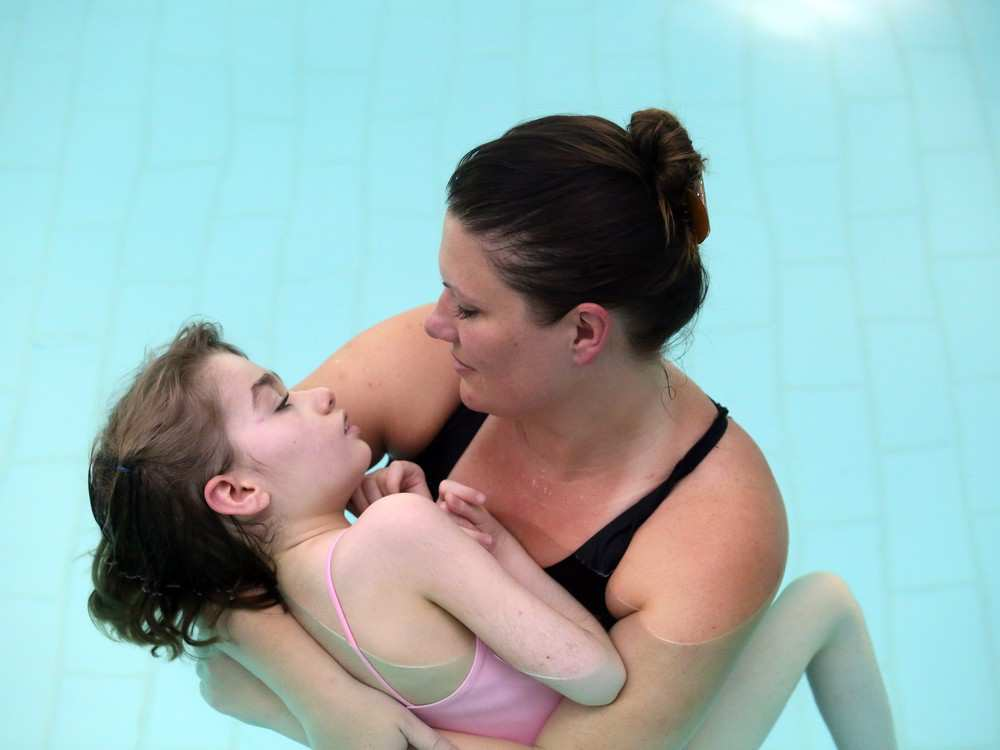
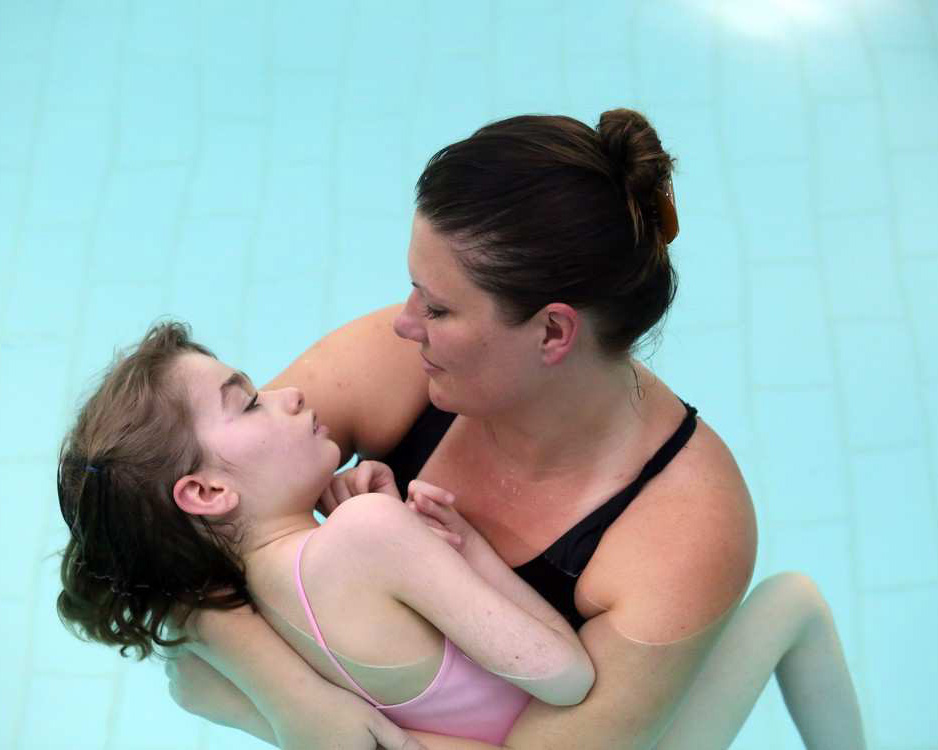
css

diff --git a/server/public/index.html b/server/public/index.html
@@ -76,8 +76,9 @@
 
 
 
-
-    <section class="container carouselContainer">
+<!-- <div class="carouselAndVideoDiv"> -->
+    <!--CAROUSEL / SLIDESHOW -->
+    <div class="container carouselContainer">
       <div id="myCarousel" class="carousel slide" data-ride="carousel">
         <!-- Indicators -->
         <ol class="carousel-indicators">
@@ -85,33 +86,28 @@
           <li data-target="#myCarousel" data-slide-to="1"></li>
           <li data-target="#myCarousel" data-slide-to="2"></li>
         </ol>
-
         <!-- Wrapper for slides -->
         <div class="carousel-inner">
-
           <div class="item active">
-            <img src="images/slideshow/girlswim.jpg" alt="Girl Swimming" style="width:100%;">
+            <img class="slideshowImage" src="images/slideshow/girlswim.jpg" alt="Girl Swimming">
             <div class="carousel-caption">
-              <h3>I love to swim!</h3>
+              <!-- <h3>I love to swim!</h3> -->
             </div>
-          </div>
+          </div>  <!-- end first item-->
+          <div class="item">
+            <img class="slideshowImage" src="images/slideshow/motherSon.jpg" alt="Mother and Son">
+            <div class="carousel-caption">
+              <!-- <h3>Swimming is fun!</h3> -->
+            </div>
+          </div> <!-- end second item-->
 
           <div class="item">
-            <img src="images/slideshow/motherSon.jpg" alt="Mother and Son" style="width:100%;">
+            <img class="slideshowImage" src="images/slideshow/motherDaughter.jpeg" alt="Mother and Daughter">
             <div class="carousel-caption">
-              <h3>Swimming is so much fun!</h3>
+              <!-- <h3>Water = Therapy</h3> -->
             </div>
-          </div>
-
-          <div class="item">
-            <img src="images/slideshow/motherDaughter.jpeg" alt="Mother and Daughter" style="width:100%;">
-            <div class="carousel-caption">
-              <h3>Water = Therapy</h3>
-            </div>
-          </div>
-
-        </div>
-
+          </div> <!-- end first item-->
+        </div>   <!-- END SLIDE WRAPPER -->
         <!-- Left and right controls -->
         <a class="left carousel-control" href="#myCarousel" data-slide="prev">
           <span class="glyphicon glyphicon-chevron-left"></span>
@@ -122,49 +118,16 @@
           <span class="sr-only">Next</span>
         </a>
       </div>
-    </section>
-
-
-
-
-
-
-
-
-
-
-
+    </div>
+    <!-- END CAROUSEL / SLIDESHOW -->
 
     <div class="videoDiv">
         <video loop muted autoplay="" class="videoItself">
           <source src="images/videos/now_this.mp4" type="video/mp4">
         </video>
+    </div>
 
 
-
-    <section class="search">
-    <h3>Find a pool</h3>
-    <form name="chartForm" ng-submit="home.getFacilities()">
-          <div class="searchDiv">
-            <i class="fa fa-search" aria-hidden="true"></i>
-            <input type="text" ng-model="home.zipcode" placeholder="Zip Code" class="zipcodeInput">
-          </div>
-        <div class="col-xs-2">
-          <button type="submit" class="submitZipButton btn btn-lg btn-info">Search</button>
-        <!-- </div> -->
-    </form>
-    </section>
-</div>
-
-
-
-
-
-
-    <!-- <div class="slideshowDiv">
-        <img class="slideshowImage" src="images/slideshow/girlswim.jpg" alt="girl swimming">
-
-    </div> -->
 
 
 
@@ -492,6 +455,24 @@
 
 
 
+    <section class="search">
+    <h3>Find a pool</h3>
+    <form name="chartForm" ng-submit="home.getFacilities()">
+          <div class="searchDiv">
+            <i class="fa fa-search" aria-hidden="true"></i>
+            <input type="text" ng-model="home.zipcode" placeholder="Zip Code" class="zipcodeInput">
+          </div>
+        <div class="col-xs-2">
+          <button type="submit" class="submitZipButton btn btn-lg btn-info">Search</button>
+        </div>
+    </form>
+    </section>
+
+
+
+
+
+
     <!-- Footer -->
     <footer class="w3-container w3-padding-32 w3-theme-d1 w3-center">
         <h4>Follow Us</h4>
@@ -511,8 +492,6 @@
             }
         }
     </script>
-
-
 
 
 

diff --git a/server/public/css/styles.css b/server/public/css/styles.css
@@ -17,30 +17,52 @@ h1  {
 }
 
 .videoDiv {
-  /*margin: auto;*/
+  display: inline-block;
+  margin: auto;
   background: black;
   border-top: groove black 20px;
-  /*width: 100%;*/
+  width: 50%;
+  float: right;
+  height: 100%;
 }
 
 .videoItself{
   background: black;
-  margin: auto;
-  width: 50%;
-  /*height: auto;*/
-  /*position: center;*/
+  /*margin: auto !important;*/
+  width: 84%;
+  height: 30%;
+  /*padding-left: 20px;*/
+  padding-bottom: 45px;
+  margin-left: 30px;
 }
 
-.slideshowDiv {
+.carouselContainer {
+  display: inline-block;
+  width: 50% !important;
   background: black;
-  width: 100%;
+
+  margin: auto;
+  float: left;
+  height: 90%;
+  max-height: 999px;
+  overflow: hidden;
+  border-top: groove black 20px;
+  padding-bottom: 50px;
+  /*padding-left: 50px !important;*/
+
 }
 
 .slideshowImage {
-  background: black;
-  position: center;
-  width: 70%;
+ width: 95%;
+ margin: auto;
+ /*max-height: 350px;*/
+ /*overflow: hidden;*/
 }
+
+.carouselAndVideoDiv{
+  display: inline-block;
+}
+
 
 .comingSoonDiv{
   background: black;
@@ -59,20 +81,16 @@ h1  {
 .navbar {
   position: fixed !important;
   width: 100%;
-  /*overflow: hidden !important;*/
+  overflow: hidden !important;
   /*margin-bottom: 0px !important;*/
 }
 
 
-.carouselContainer {
-  width: 100%;
-  background: black;
 
-}
 
 
 .search {
-  float: right;
+
   width: 300px;
   height: 200px;
   padding: 40px 40px 40px 40px;
@@ -82,12 +100,12 @@ h1  {
   box-shadow: 0 0 15px rgba(0, 0, 0, 0.22);
   padding: 30px;
   background: white;
-
-h3 {
+}
+  .search h3 {
     background: gray;
     text-transform: uppercase;
     text-align: center;
-    color: $catalina-blue;
+    color: white;
     font-size: 18px;
     font-weight: 100;
     padding: 20px;
@@ -98,13 +116,23 @@ h3 {
   .searchDiv {
     margin-left: 30px;
   }
-  input[type=text] {
+  .input {
     border-radius: 25px;
     text-align: center;
   }
-    button {
+    .button {
       text-align: center;
       padding: 10px 20px 10px 25px;
       margin-left: 75px;
     }
 }
+
+/*img-responsive,
+.thumbnail > img,
+.thumbnail a > img,
+.carousel-inner > .item > img,
+.carousel-inner > .item > a > img {
+  display: block;
+  width: 100%;
+  height: auto;
+}*/
